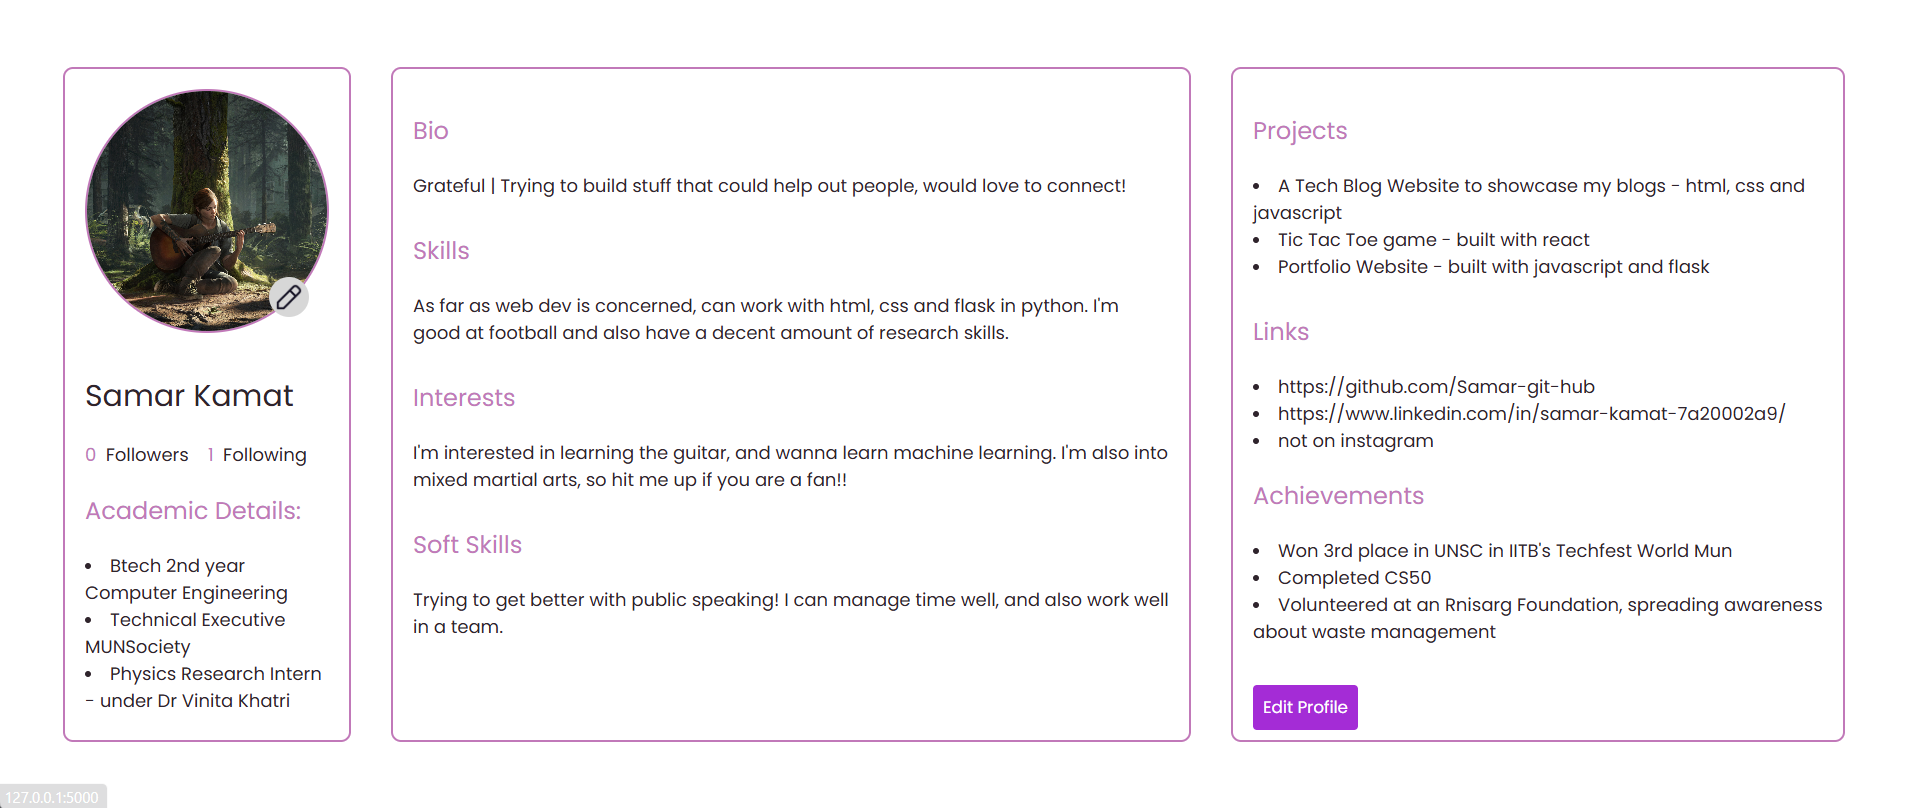
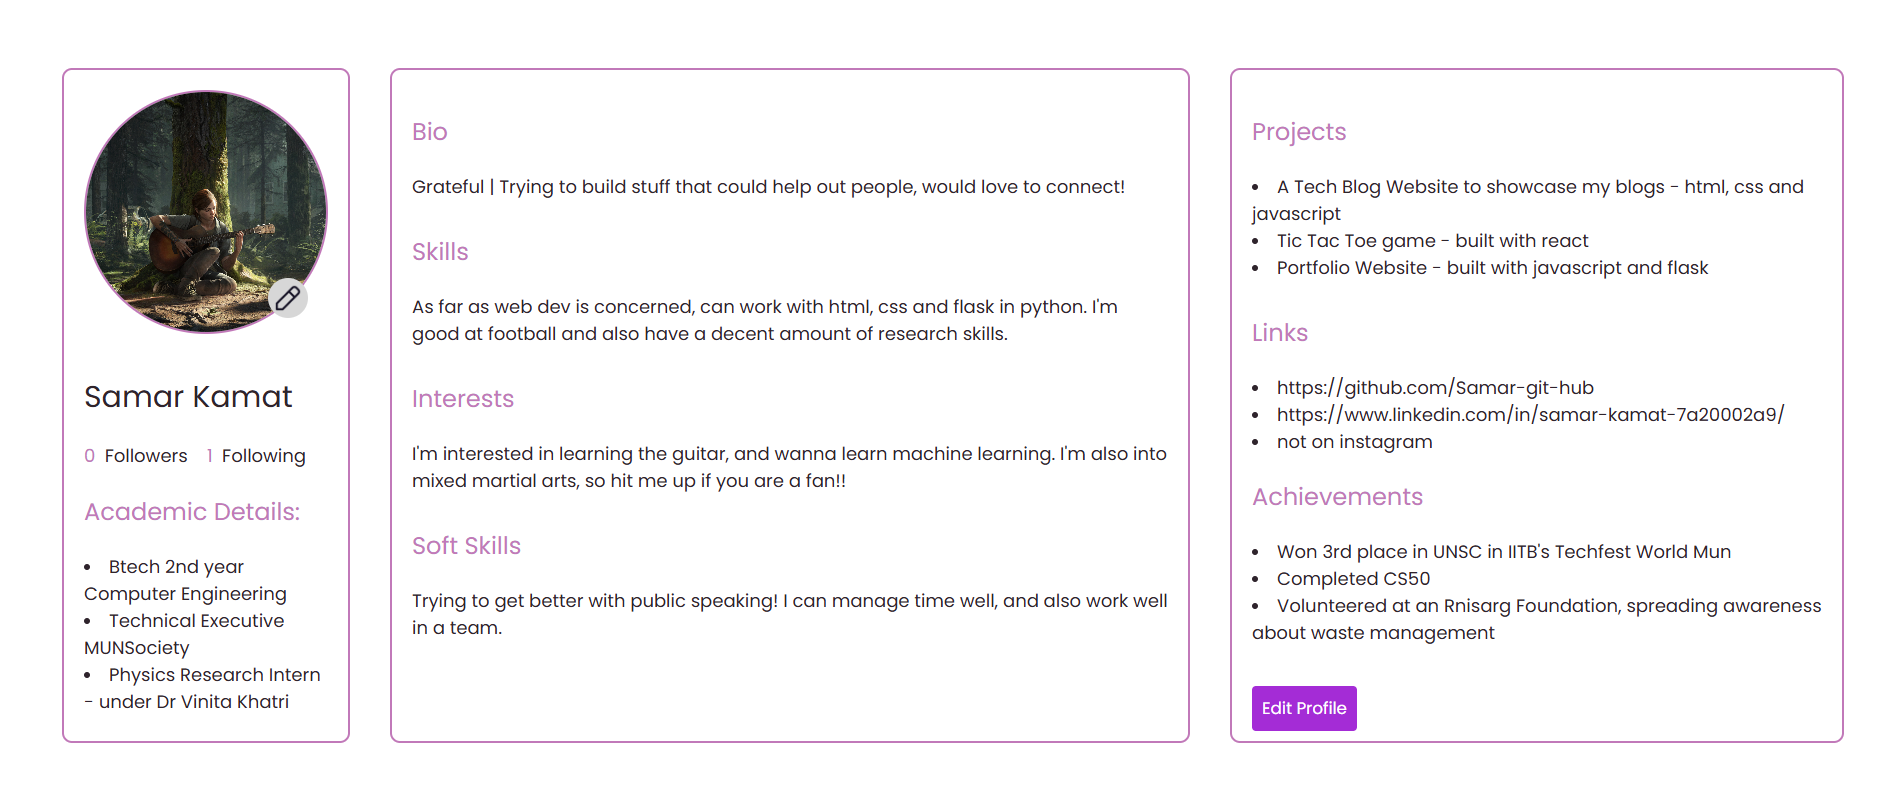
final changes of v1
was a great journey

diff --git a/templates/index.html b/templates/index.html
@@ -20,7 +20,7 @@
                     <div class="title-index">
                         Dynamically change your
                         {% if session["user_id"] %}
-                            <span class="index-mpstme"><a href="/profile">profile</a></span>
+                            <a href="/profile"><span class="index-mpstme">profile</span></a>
                         {% else %}
                             <span class="index-mpstme">profile</span>
                         {% endif %}
@@ -36,7 +36,7 @@
                     <div class="title-index-2">
                         Find people you want to talk with, with the help of this
                         {% if session["user_id"] %}
-                            <span class="index-mpstme"><a href="/search">search</a></span>
+                            <a href="/search"><span class="index-mpstme">search</span></a>
                         {% else %}
                             <span class="index-mpstme">search</span>
                         {% endif %}
@@ -52,7 +52,7 @@
                     <div class="title-index" >
                         Create you very own
                         {% if session["user_id"] %}
-                            <span class="index-mpstme"><a href="/events">events</a></span>!
+                            <a href="/events"><span class="index-mpstme">events</span></a>!
                         {% else %}
                             <span class="index-mpstme">events</span>!
                         {% endif %}

diff --git a/static/script.js b/static/script.js
@@ -27,7 +27,7 @@ document.addEventListener("DOMContentLoaded", function () {
         event3 && (event3.src = '/static/taqneeqlogo-light.png');
     } else {
         buttonelement.src = '/static/moontheme.png';
-        logoimageelement && (logoimageelement.src = '/static/logo-light.svg');
+        logoimageelement && (logoimageelement.src = '/static/logo-dark.svg');
         profileindex && (profileindex.src = '/static/profilepage-index.png');
         searchindex && (searchindex.src = '/static/searchpage-index.png');
         events1index && (events1index.src = '/static/eventspage-index-1.png');
@@ -57,7 +57,7 @@ document.addEventListener("DOMContentLoaded", function () {
             document.documentElement.setAttribute('data-theme', 'dark');
             localStorage.setItem('theme', 'dark');
             buttonelement.src = '/static/moontheme.png';
-            logoimageelement && (logoimageelement.src = '/static/logo-light.svg');
+            logoimageelement && (logoimageelement.src = '/static/logo-dark.svg');
             profileindex && (profileindex.src = '/static/profilepage-index.png');
             searchindex && (searchindex.src = '/static/searchpage-index.png');
             events1index && (events1index.src = '/static/eventspage-index-1.png');
